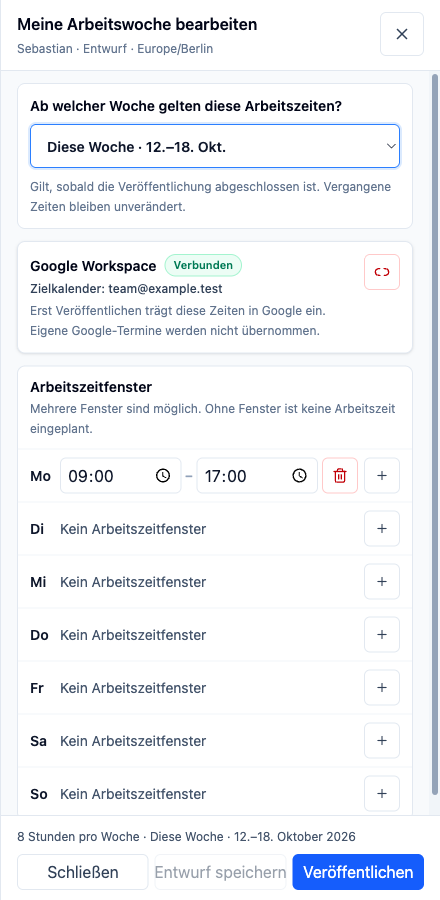
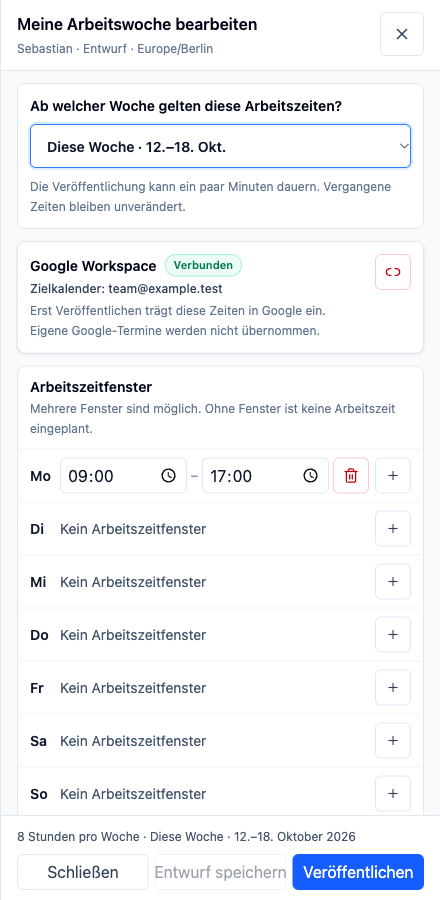
fix: preserve week status and clarify publication timing

diff --git a/src/features/team-workweek/molecules/team-workweek-matrix.stories.tsx b/src/features/team-workweek/molecules/team-workweek-matrix.stories.tsx
@@ -94,6 +94,23 @@ export const PreservesBothSidesOfAChangeInsideTheWeek: Story = {
   },
 };
 
+export const KeepsEarlierHoursVisibleWhenAPlanEndsInsideTheViewedWeek: Story = {
+  ...PreservesBothSidesOfAChangeInsideTheWeek,
+  args: {
+    ...PreservesBothSidesOfAChangeInsideTheWeek.args,
+    dateKey: "2026-10-18",
+    workweeks: [PreservesBothSidesOfAChangeInsideTheWeek.args!.workweeks![0]],
+  },
+  play: async ({ canvasElement }) => {
+    const canvas = within(canvasElement);
+    const panel = within(canvas.getByRole("tabpanel"));
+    await expect(panel.getByText("Arbeitszeiten veröffentlicht")).toBeVisible();
+    await expect(panel.queryByText("Diese Woche keine Zeiten geplant")).not.toBeInTheDocument();
+    await userEvent.click(canvas.getByRole("tab", { name: "Montag" }));
+    await expect(panel.getByText("09:00–17:00")).toBeVisible();
+  },
+};
+
 export const KeepsEmptyDayLabelsInsideCompactCells: Story = {
   args: { ...ShowsTheCurrentPublishedWorkweek.args, compact: true },
   render: (args) => <div style={{ width: 900, maxWidth: "100vw" }}><TeamWorkweekMatrix {...args} /></div>,

diff --git a/src/features/team-workweek/molecules/team-workweek-matrix.tsx b/src/features/team-workweek/molecules/team-workweek-matrix.tsx
@@ -43,8 +43,9 @@ export function TeamWorkweekMatrix({
       return [day.key, projectCalendarWorktimes({ calendarWorkweeks: workweeks, dateKey: date, profiles: [row.profile] })[0]?.windows || []];
     })),
   }));
-  const status = (row: typeof rows[number]) => row.future && !row.workweek
-    ? `Geplant ab ${formatDate(row.future.effectiveFrom)}` : row.workweek
+  const hasWeekTimes = (row: typeof rows[number]) => Object.values(row.days).some(windows => windows.length > 0);
+  const status = (row: typeof rows[number]) => row.future && !row.workweek && !hasWeekTimes(row)
+    ? `Geplant ab ${formatDate(row.future.effectiveFrom)}` : row.workweek || hasWeekTimes(row)
       ? "Arbeitszeiten veröffentlicht" : row.hasPublished ? "Diese Woche keine Zeiten geplant" : "Noch nicht veröffentlicht";
   const [selectedDayKey, setSelectedDayKey] = useState<TeamWorkweekDayKey>(() => weekdayForDate(dateKey).key || currentTeamWorkweekDayKey());
   const tabGroupId = useId();

diff --git a/src/features/team-workweek/organisms/private-team-workweek-editor.tsx b/src/features/team-workweek/organisms/private-team-workweek-editor.tsx
@@ -87,7 +87,7 @@ export function PrivateTeamWorkweekEditor({
                   disabled={state.pending || state.publication?.status === "preparing" || state.restartContextPending} />
                 <p className="mt-2 text-xs leading-5 text-slate-500">
                   {state.draft.activationMode === "immediate"
-                    ? "Gilt, sobald die Veröffentlichung abgeschlossen ist. Vergangene Zeiten bleiben unverändert."
+                    ? "Die Veröffentlichung kann ein paar Minuten dauern. Vergangene Zeiten bleiben unverändert."
                     : "Die Arbeitszeiten wiederholen sich ab dieser Woche."}
                 </p>
                 {state.weekExpired && !state.publication && <UiNotice className="mt-2" tone="warning">
